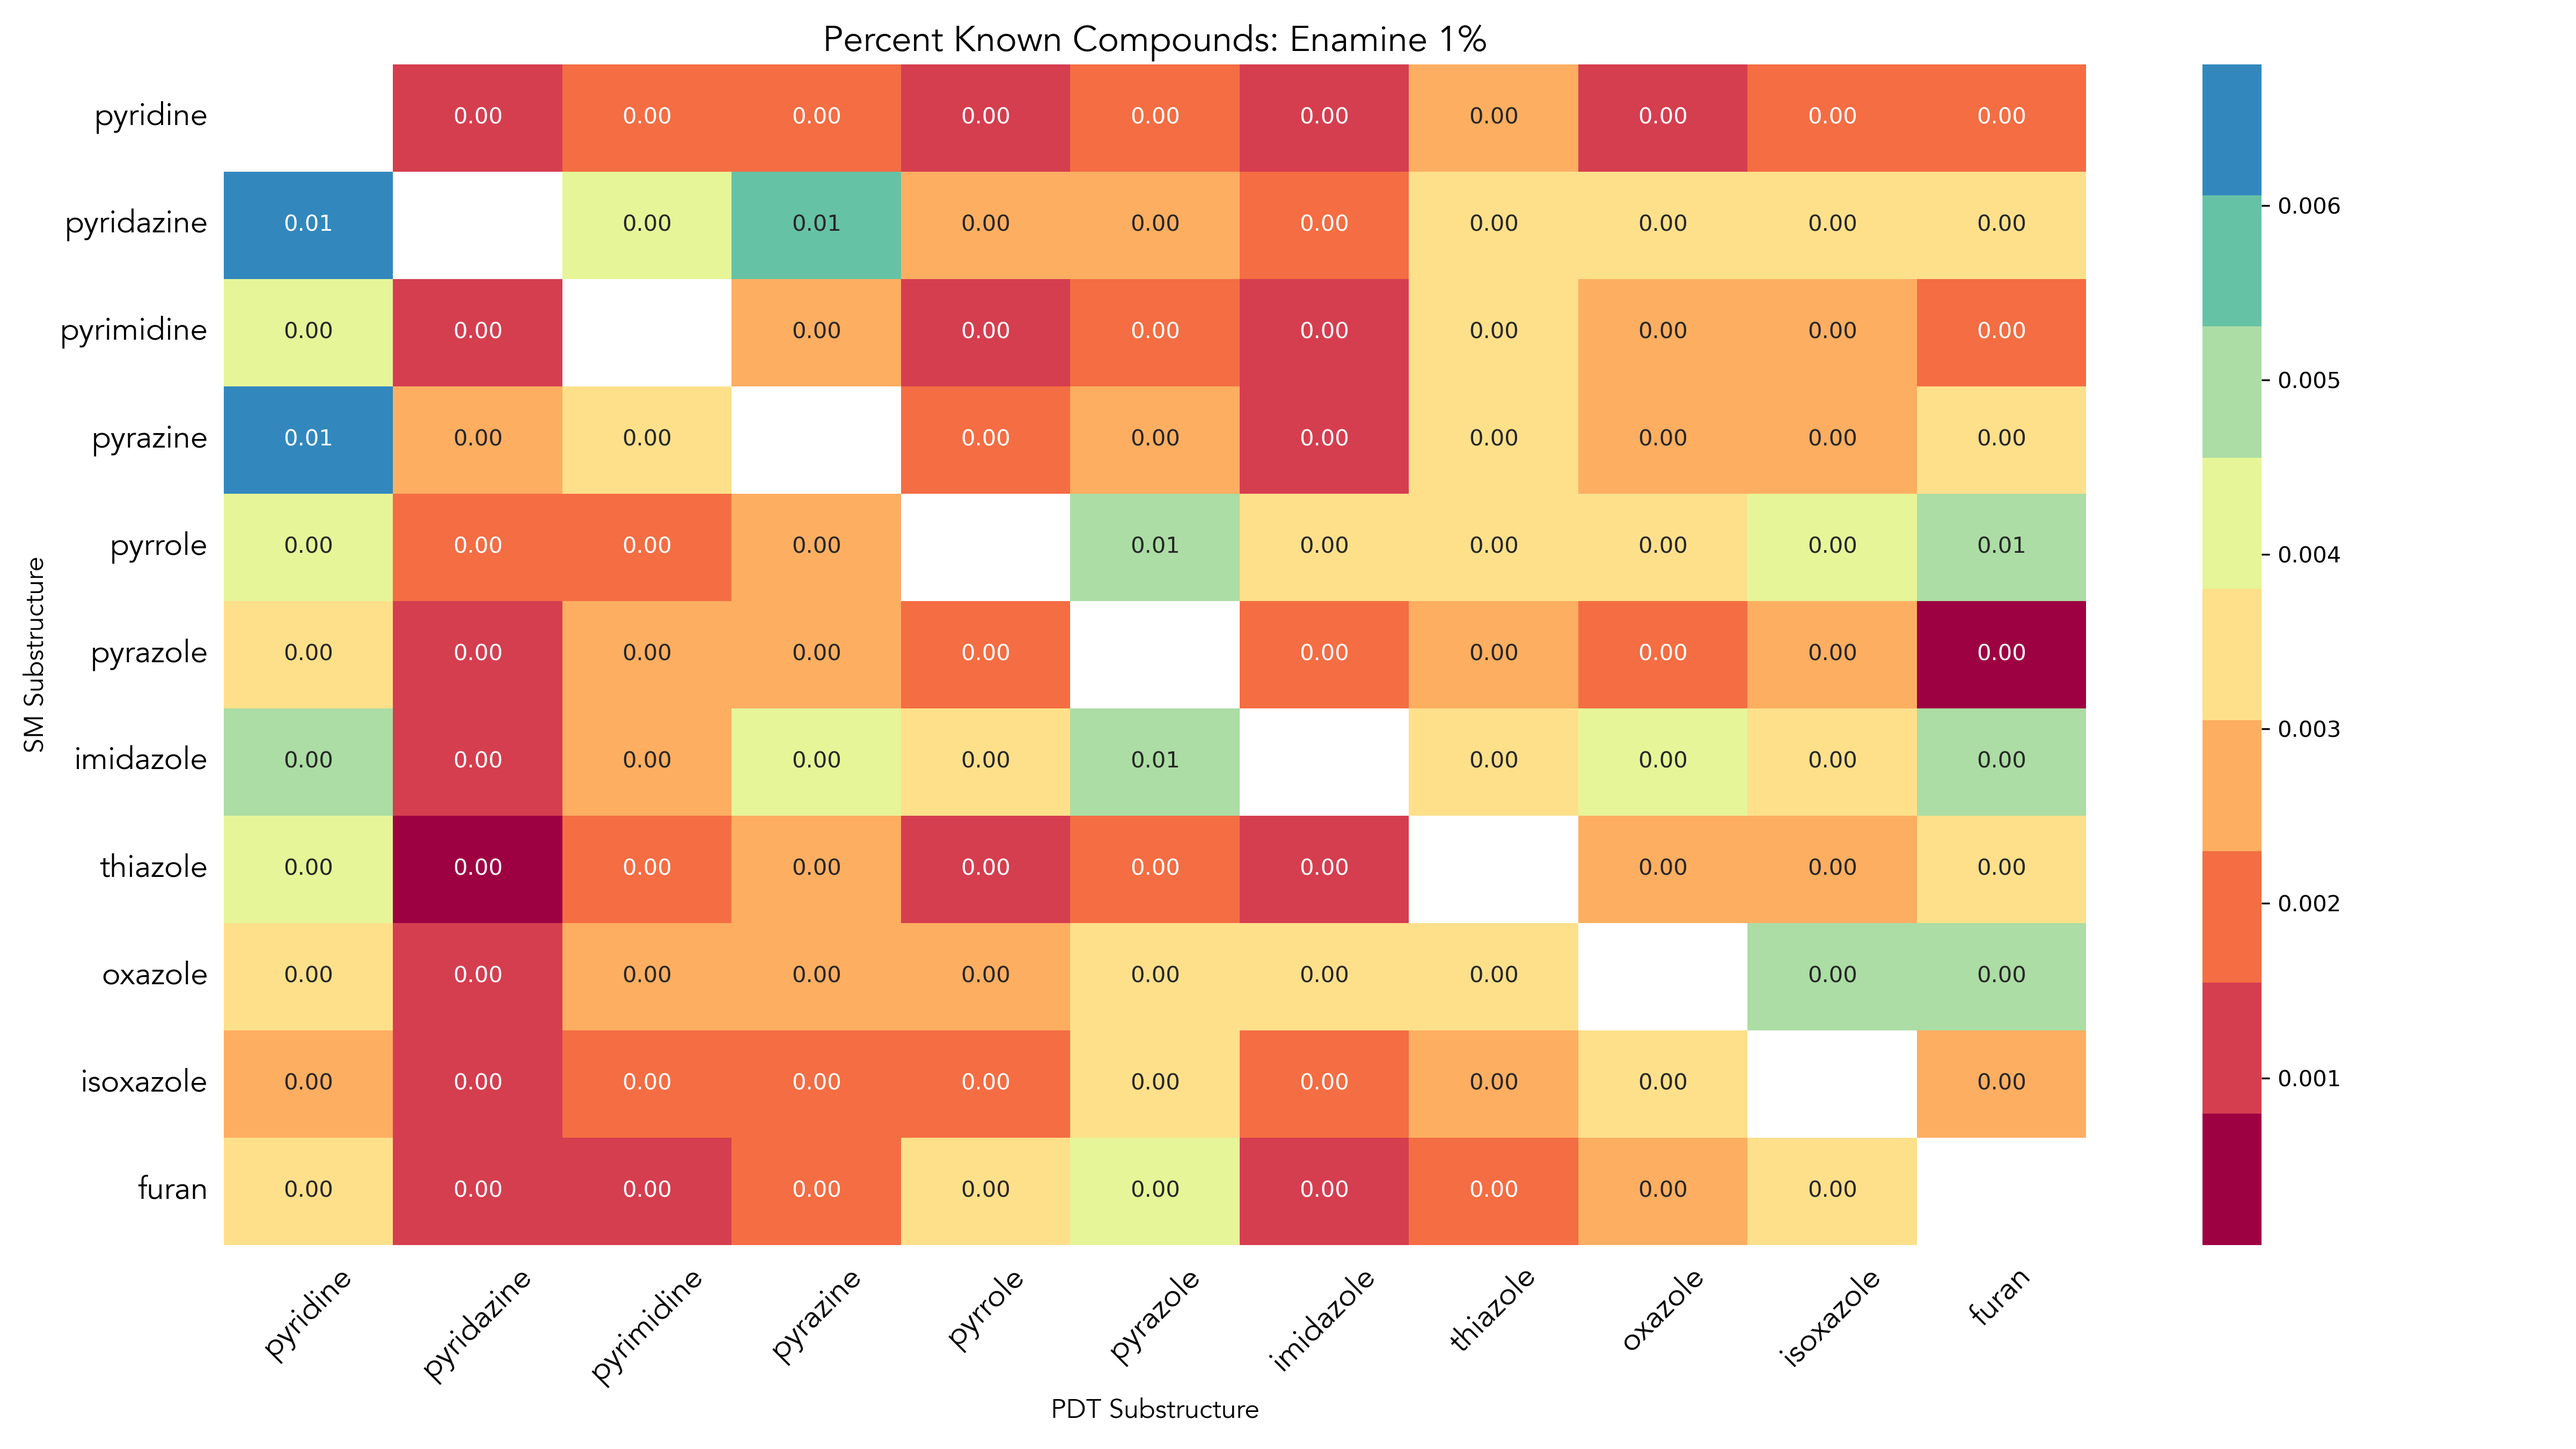
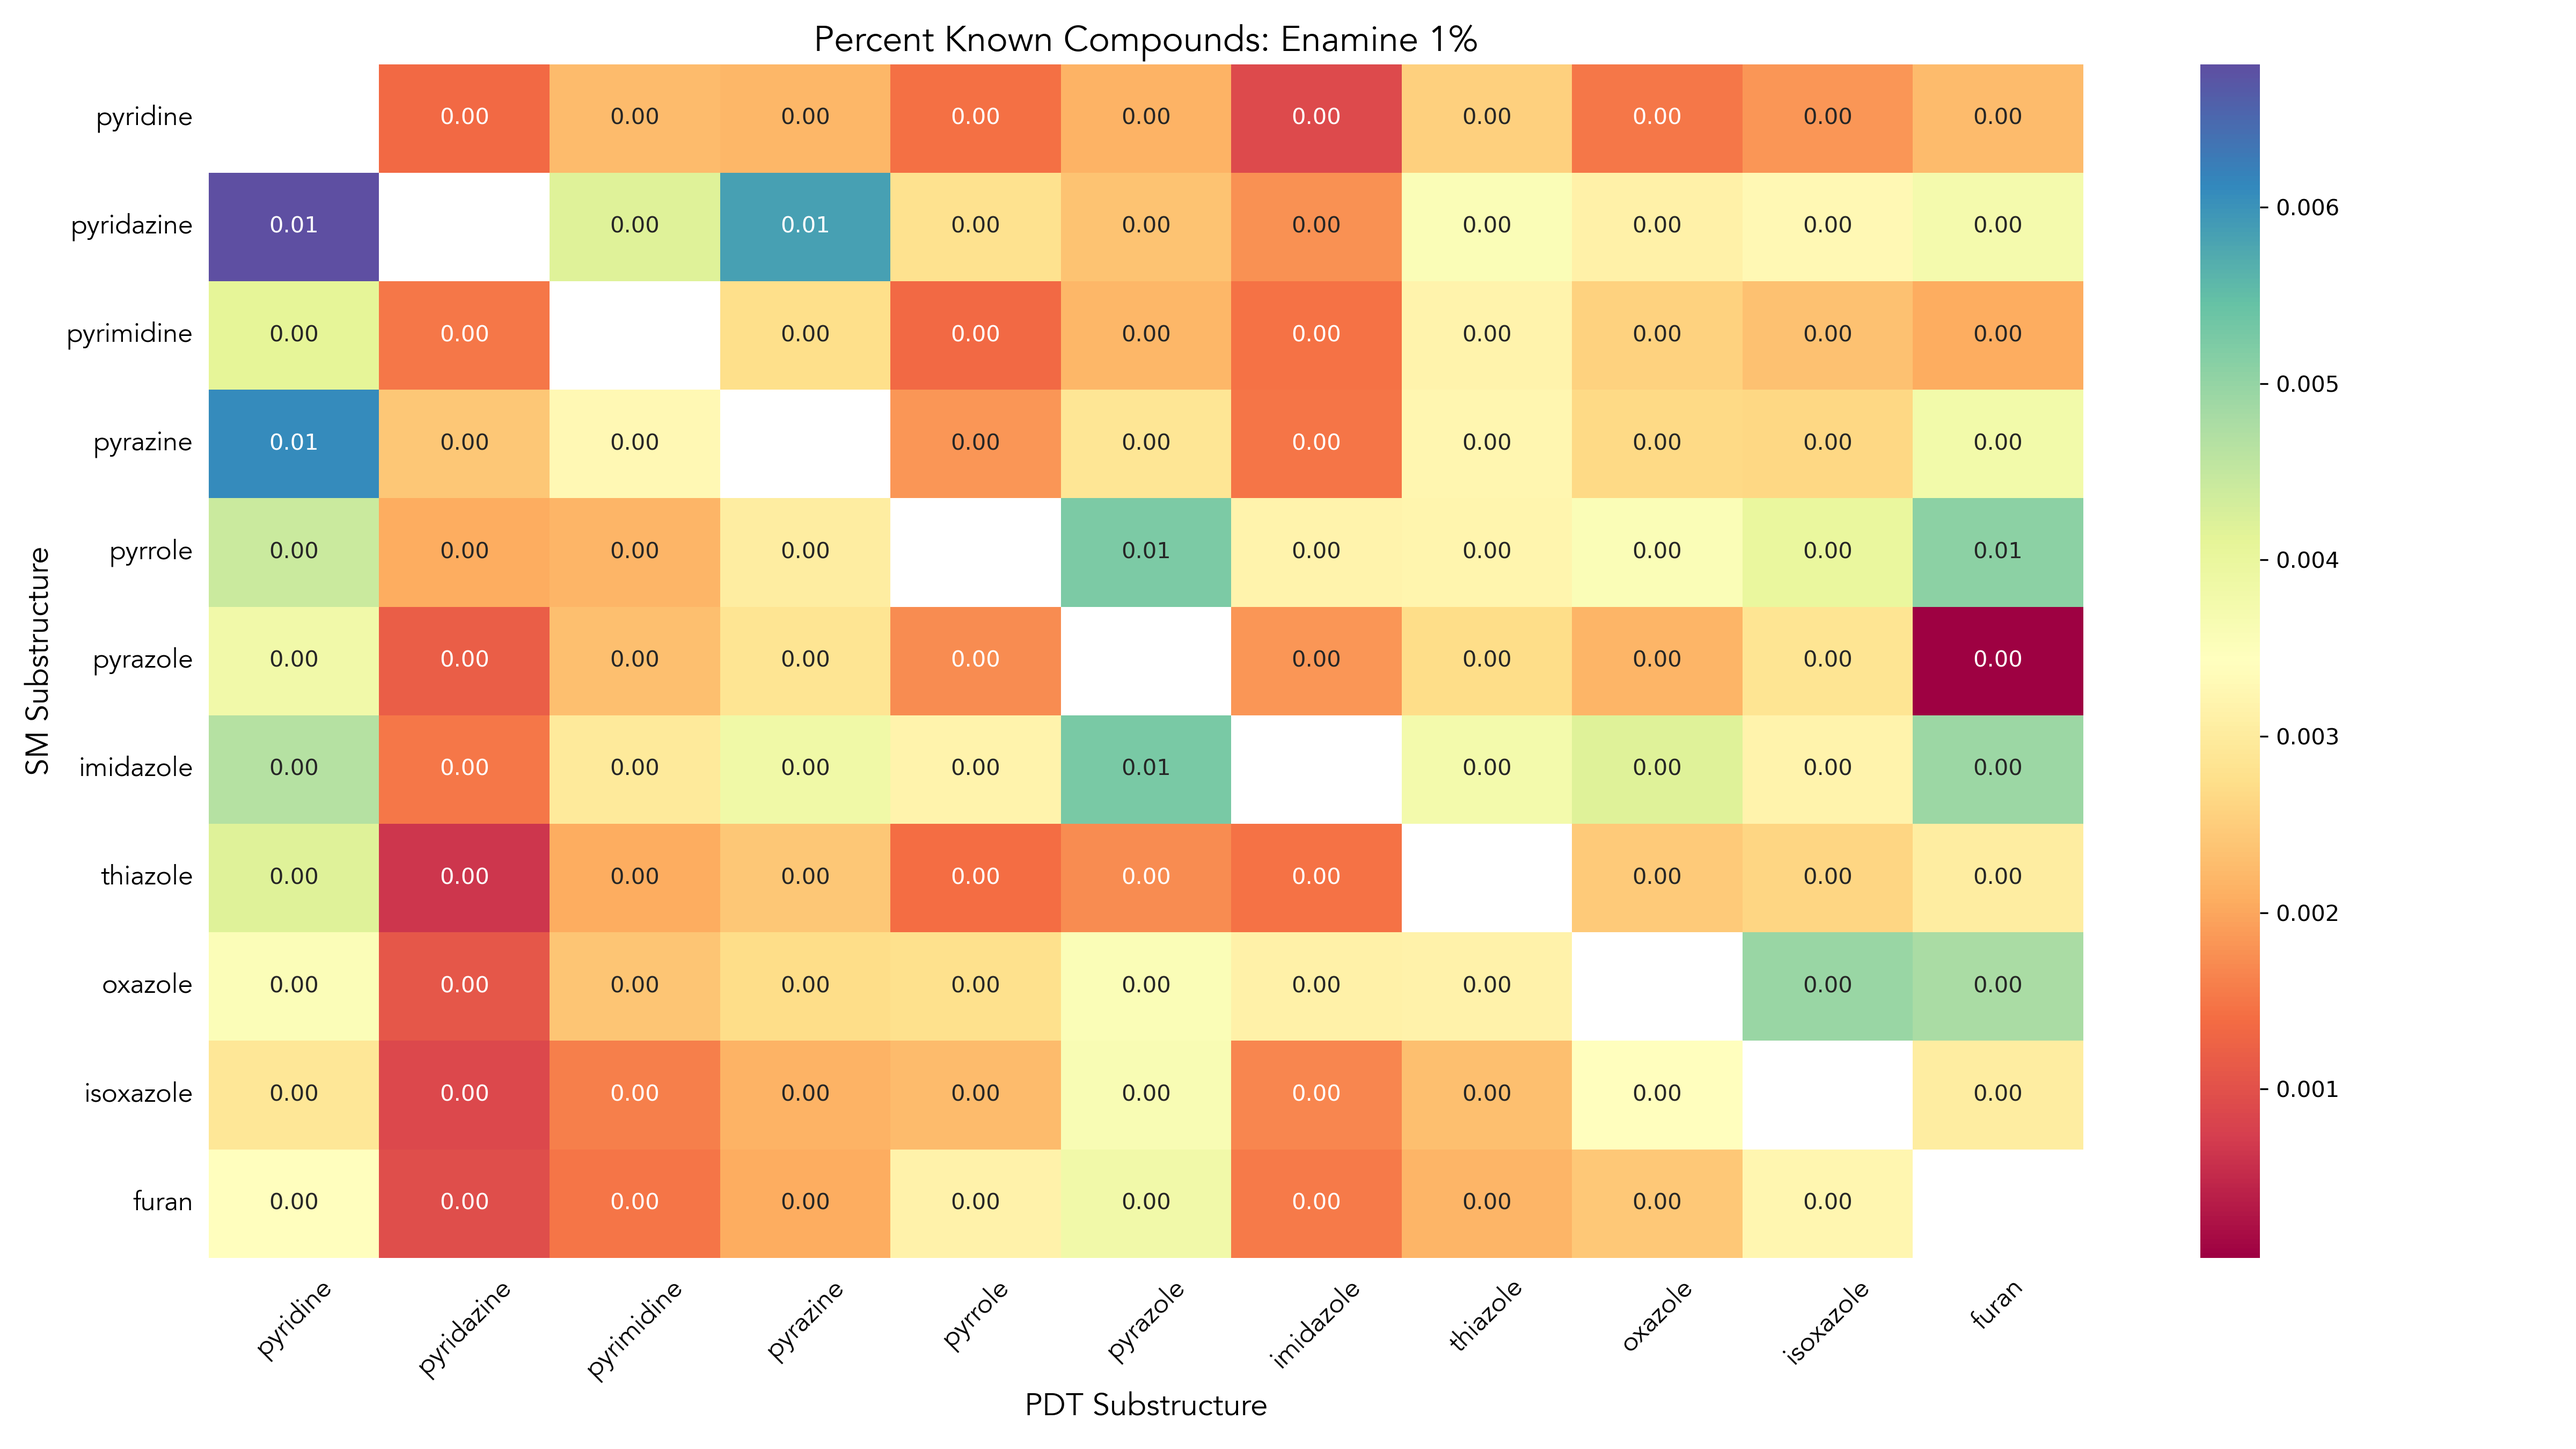
more heatmap updates

diff --git a/databases/enamine_1percent_database/heatmaps.py b/databases/enamine_1percent_database/heatmaps.py
@@ -7,6 +7,7 @@ import pandas as pd
 import seaborn as sns
 import matplotlib.pyplot as plt
 from matplotlib.colors import ListedColormap # makes nice colors for heatmap
+from matplotlib.colors import LinearSegmentedColormap # makes nice colors for heatmap
 
 
 # import seaborn and matplotlib for heatmap generation
@@ -258,16 +259,14 @@ def GenerateHeatmap(dataframe, title, filename):
     # Define figure size
     plt.figure(figsize=(16, 9))
 
-    # Define the colors for the Spectral diverging colormap
-    spectral_colors = ['#9e0142', '#d53e4f', '#f46d43', '#fdae61', '#fee08b', '#e6f598', '#abdda4', '#66c2a5', '#3288bd']
-    
-    # Create a custom colormap using ListedColormap
-    cmap = ListedColormap(spectral_colors)
+    # define which colors to use
+    # see https://seaborn.pydata.org/tutorial/color_palettes.html for more info
+    cmap = sns.color_palette("Spectral", as_cmap=True)
 
     # Create heatmap using the custom colormap
     sns.heatmap(dataframe, 
-                annot=True, 
-                cmap=cmap,  # Use the custom colormap
+                annot=True,
+                cmap=cmap,
                 linewidths=0, 
                 fmt=".2f", 
                 annot_kws={"size": 10})
@@ -282,12 +281,12 @@ def GenerateHeatmap(dataframe, title, filename):
     plt.title(title, fontsize=16, fontweight="bold", fontfamily=fontfamily)
     
     # Rotate the x-axis and y-axis labels for better readability
-    plt.xticks(rotation=45, fontsize=14, fontweight="bold", fontfamily=fontfamily)
-    plt.yticks(rotation=0, fontsize=14, fontweight="bold", fontfamily=fontfamily)
+    plt.xticks(rotation=45, fontsize=12, fontweight="bold", fontfamily=fontfamily)
+    plt.yticks(rotation=0, fontsize=12, fontweight="bold", fontfamily=fontfamily)
 
     # Add labels to the x-axis and y-axis
-    plt.xlabel('PDT Substructure', fontsize=12, fontweight="bold", fontfamily=fontfamily)
-    plt.ylabel('SM Substructure', fontsize=12, fontweight="bold", fontfamily=fontfamily)
+    plt.xlabel('PDT Substructure', fontsize=14, fontweight="bold", fontfamily=fontfamily)
+    plt.ylabel('SM Substructure', fontsize=14, fontweight="bold", fontfamily=fontfamily)
 
     # Adjust the layout to prevent cutoff of labels
     plt.tight_layout()

diff --git a/databases/enamine_database/heatmaps.py b/databases/enamine_database/heatmaps.py
@@ -7,6 +7,7 @@ import pandas as pd
 import seaborn as sns
 import matplotlib.pyplot as plt
 from matplotlib.colors import ListedColormap # makes nice colors for heatmap
+from matplotlib.colors import LinearSegmentedColormap # makes nice colors for heatmap
 
 
 # import seaborn and matplotlib for heatmap generation
@@ -258,16 +259,14 @@ def GenerateHeatmap(dataframe, title, filename):
     # Define figure size
     plt.figure(figsize=(16, 9))
 
-    # Define the colors for the Spectral diverging colormap
-    spectral_colors = ['#9e0142', '#d53e4f', '#f46d43', '#fdae61', '#fee08b', '#e6f598', '#abdda4', '#66c2a5', '#3288bd']
-    
-    # Create a custom colormap using ListedColormap
-    cmap = ListedColormap(spectral_colors)
+    # define which colors to use
+    # see https://seaborn.pydata.org/tutorial/color_palettes.html for more info
+    cmap = sns.color_palette("Spectral", as_cmap=True)
 
     # Create heatmap using the custom colormap
     sns.heatmap(dataframe, 
-                annot=True, 
-                cmap=cmap,  # Use the custom colormap
+                annot=True,
+                cmap=cmap,
                 linewidths=0, 
                 fmt=".2f", 
                 annot_kws={"size": 10})
@@ -282,12 +281,12 @@ def GenerateHeatmap(dataframe, title, filename):
     plt.title(title, fontsize=16, fontweight="bold", fontfamily=fontfamily)
     
     # Rotate the x-axis and y-axis labels for better readability
-    plt.xticks(rotation=45, fontsize=14, fontweight="bold", fontfamily=fontfamily)
-    plt.yticks(rotation=0, fontsize=14, fontweight="bold", fontfamily=fontfamily)
+    plt.xticks(rotation=45, fontsize=12, fontweight="bold", fontfamily=fontfamily)
+    plt.yticks(rotation=0, fontsize=12, fontweight="bold", fontfamily=fontfamily)
 
     # Add labels to the x-axis and y-axis
-    plt.xlabel('PDT Substructure', fontsize=12, fontweight="bold", fontfamily=fontfamily)
-    plt.ylabel('SM Substructure', fontsize=12, fontweight="bold", fontfamily=fontfamily)
+    plt.xlabel('PDT Substructure', fontsize=14, fontweight="bold", fontfamily=fontfamily)
+    plt.ylabel('SM Substructure', fontsize=14, fontweight="bold", fontfamily=fontfamily)
 
     # Adjust the layout to prevent cutoff of labels
     plt.tight_layout()

diff --git a/databases/mcule_database/heatmaps.py b/databases/mcule_database/heatmaps.py
@@ -7,6 +7,7 @@ import pandas as pd
 import seaborn as sns
 import matplotlib.pyplot as plt
 from matplotlib.colors import ListedColormap # makes nice colors for heatmap
+from matplotlib.colors import LinearSegmentedColormap # makes nice colors for heatmap
 
 
 # import seaborn and matplotlib for heatmap generation
@@ -258,16 +259,14 @@ def GenerateHeatmap(dataframe, title, filename):
     # Define figure size
     plt.figure(figsize=(16, 9))
 
-    # Define the colors for the Spectral diverging colormap
-    spectral_colors = ['#9e0142', '#d53e4f', '#f46d43', '#fdae61', '#fee08b', '#e6f598', '#abdda4', '#66c2a5', '#3288bd']
-    
-    # Create a custom colormap using ListedColormap
-    cmap = ListedColormap(spectral_colors)
+    # define which colors to use
+    # see https://seaborn.pydata.org/tutorial/color_palettes.html for more info
+    cmap = sns.color_palette("Spectral", as_cmap=True)
 
     # Create heatmap using the custom colormap
     sns.heatmap(dataframe, 
-                annot=True, 
-                cmap=cmap,  # Use the custom colormap
+                annot=True,
+                cmap=cmap,
                 linewidths=0, 
                 fmt=".2f", 
                 annot_kws={"size": 10})
@@ -282,12 +281,12 @@ def GenerateHeatmap(dataframe, title, filename):
     plt.title(title, fontsize=16, fontweight="bold", fontfamily=fontfamily)
     
     # Rotate the x-axis and y-axis labels for better readability
-    plt.xticks(rotation=45, fontsize=14, fontweight="bold", fontfamily=fontfamily)
-    plt.yticks(rotation=0, fontsize=14, fontweight="bold", fontfamily=fontfamily)
+    plt.xticks(rotation=45, fontsize=12, fontweight="bold", fontfamily=fontfamily)
+    plt.yticks(rotation=0, fontsize=12, fontweight="bold", fontfamily=fontfamily)
 
     # Add labels to the x-axis and y-axis
-    plt.xlabel('PDT Substructure', fontsize=12, fontweight="bold", fontfamily=fontfamily)
-    plt.ylabel('SM Substructure', fontsize=12, fontweight="bold", fontfamily=fontfamily)
+    plt.xlabel('PDT Substructure', fontsize=14, fontweight="bold", fontfamily=fontfamily)
+    plt.ylabel('SM Substructure', fontsize=14, fontweight="bold", fontfamily=fontfamily)
 
     # Adjust the layout to prevent cutoff of labels
     plt.tight_layout()
